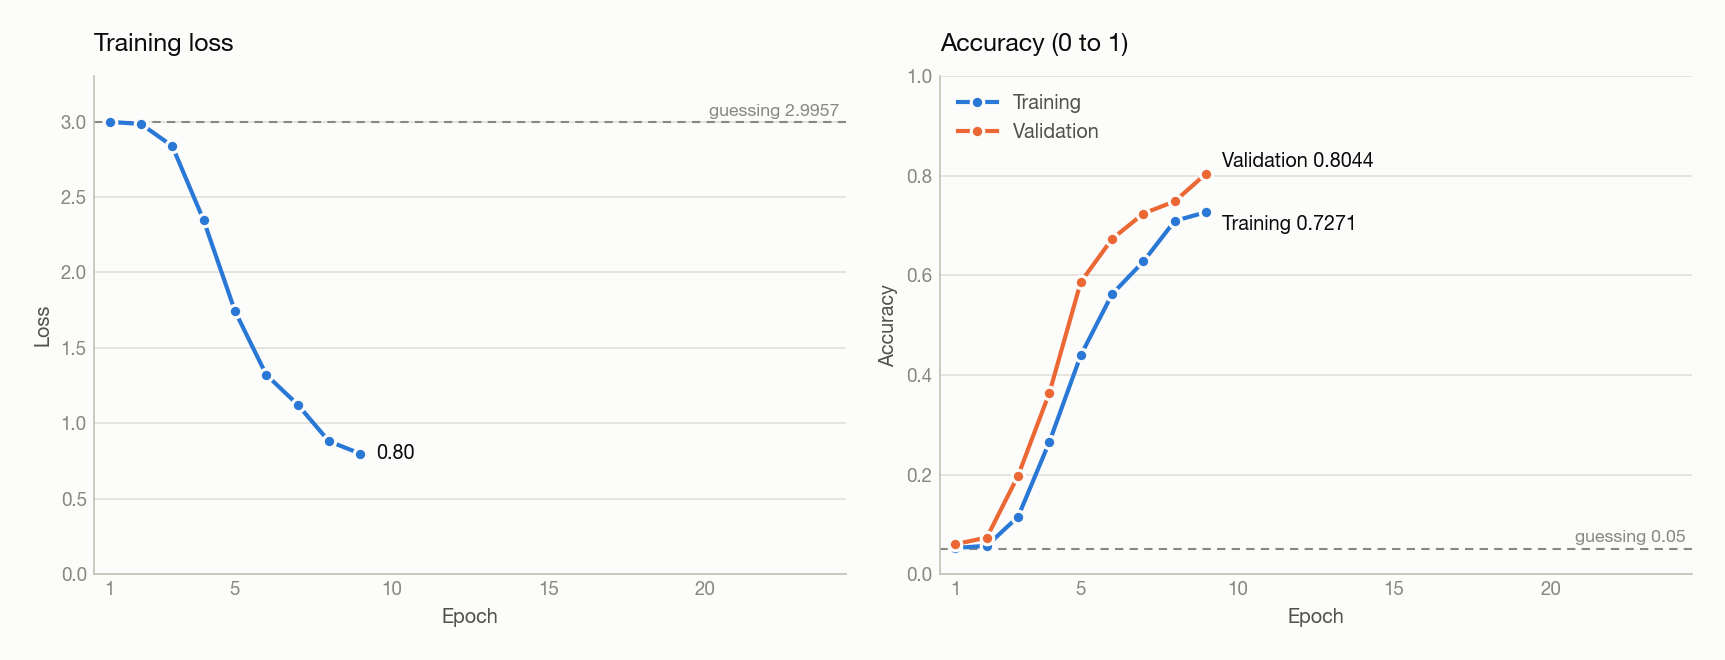
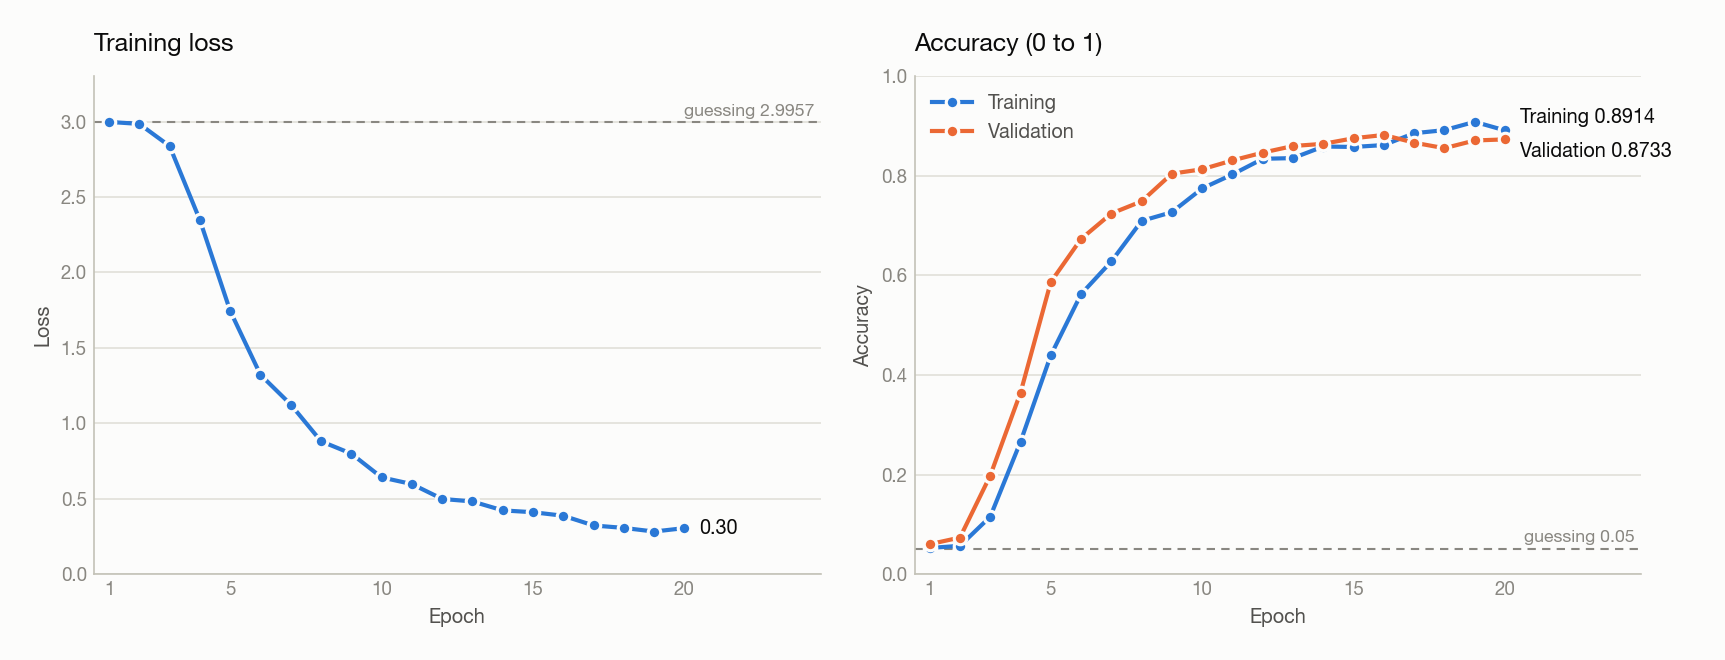
model training 2

diff --git a/README.md b/README.md
@@ -23,6 +23,9 @@ MIRACL-VC1, color images only.
 | `model.py` | An older full script, kept only for comparison. Running it overwrites `best_model.pth`. |
 | `Lip_Reading_CNN_Model.pdf` | The book chapter this project follows. |
 | `PROGRESS.md` | Session log. |
+| `plot_charts.py` | Draws the loss and accuracy charts from `training_log.csv`. Run: `python3 plot_charts.py` |
+| `training_log.csv` | One row per epoch: training loss, training accuracy, validation accuracy (0 to 1). |
+| `training_charts.png` | The charts drawn by `plot_charts.py`. |
 
 ## How `model2.py` works
 
@@ -81,10 +84,301 @@ Guessing among 20 classes gives accuracy 0.05 and a loss of 2.9957 (that is ln 2
 
 The numbers 0.457 and 0.273 are the mean and standard deviation of the training pixels.
 
+## Results
+
+Full run: cropped mouth region + scaled pixels, 20 epochs, batch size 16, learning rate 0.001. All accuracies are from 0 to 1. Guessing among 20 classes gives 0.05.
+
+| Model | Training accuracy | Validation accuracy | **Test accuracy** |
+|---|---|---|---|
+| After epoch 20 (last) | 0.9795 | 0.8733 | **0.8978** |
+| Epoch 16 (best validation accuracy) | 0.9790 | 0.8822 | **0.9156** |
+
+- The epoch 16 model was picked using the validation set, not the test set, so its test accuracy is an honest number.
+- The test set has 450 clips, so a difference of about 0.02 between two test accuracies is within normal noise. The two models are about equally good.
+- Training accuracy in the table was measured with dropout off, on all 2100 training clips. The per-epoch training accuracy in the chart is lower (0.89 at epoch 20) because it is measured while training, with dropout on. Compared fairly, the model scores about 0.98 on clips it has seen and about 0.88 to 0.90 on clips it has not. That gap is overfitting.
+- Validation accuracy stopped improving after epoch 16 (best 0.8822), while training accuracy kept rising.
+
+## Training curves
+
+![Training loss and accuracy per epoch](training_charts.png)
+
+The dashed lines mark pure guessing among 20 classes (accuracy 0.05, loss 2.9957). Validation loss was not recorded, so the loss chart shows training loss only.
+
 ## Known issues and next steps
 
 - The pixel scaling is **not yet in `model2.py`**. Without it, `model2.py` stays at about 0.05. Add it before training.
 - The mouth box is fixed per speaker. A few recordings (for example F04 and F09) move enough that the box misses the mouth. A face or mouth detector would fix this.
-- Final training, validation and test accuracy for the full 20 epochs with scaling are being measured. Fill them in here when the run finishes.
+- The model overfits after about epoch 16. Ideas to try: stop at the best validation epoch, add data augmentation, or add more dropout.
 - Data loading is slow. Saving the processed arrays once with `np.savez` avoids re-reading the images each run.
 - Padding repeats the last frame. The book pads with each speaker's `dummy.jpg` instead.
+
+## Full code: model2.py
+
+This is a copy of the file as it was when this README was written. If you edit `model2.py`, the real file is the one that counts.
+
+```python
+#part1-imports
+import os
+import cv2
+import numpy as np
+import torch
+import torch.nn as nn
+from sklearn.model_selection import train_test_split
+from torch.utils.data import TensorDataset, DataLoader
+
+#part2-data(5 steps)
+#step-1 Speaker folders	Recording folder locations
+clip_paths = []
+clip_labels = []
+clips = []
+DATA_DIR = "dataset"
+speakers=sorted(os.listdir(DATA_DIR))
+# mouth centre (x, y) of each speaker in the 640x480 picture
+mouth_center = {
+    "F01": (242, 368), "F02": (287, 373), "F04": (268, 285), "F05": (258, 315),
+    "F06": (267, 300), "F07": (245, 280), "F08": (255, 328), "F09": (257, 318),
+    "F10": (298, 345), "F11": (290, 350), "M01": (278, 275), "M02": (355, 252),
+    "M04": (345, 302), "M07": (262, 332), "M08": (302, 342)}
+CROP_W = 200
+CROP_H = 125
+for speaker in speakers:
+    if speaker.endswith(".txt"):
+        continue
+    for category in ["words", "phrases"]:
+        category_path = os.path.join(DATA_DIR, speaker, category)
+        labels = sorted(os.listdir(category_path))
+        for label in labels:
+            label_path = os.path.join(category_path, label)
+            repetitions = sorted(os.listdir(label_path))
+            for repetition in repetitions:
+                repetition_path = os.path.join(label_path, repetition) 
+                frames = sorted([f for f in os.listdir(repetition_path)if f.startswith("color")])
+                frames_data = []
+                for frame in frames:
+                    frame_path = os.path.join(repetition_path, frame)
+#step2 Reading images and converting them into grayscale
+                    image = cv2.imread(frame_path)
+                    cx, cy = mouth_center[speaker]
+                    left = max(0, min(640 - CROP_W, cx - CROP_W // 2))
+                    top = max(0, min(480 - CROP_H, cy - CROP_H // 2))
+                    image = image[top:top + CROP_H, left:left + CROP_W]
+                    image = cv2.cvtColor(image, cv2.COLOR_BGR2GRAY)
+                    image = cv2.resize(image, (48, 30))
+                    image = image.astype(np.float32)
+                    image = image / 255.0
+                    frames_data.append(image)
+                clip = np.array(frames_data)
+                 
+#step 3 adding dummy for frames less than 15 
+                if len(clip) == 0:
+                    continue
+                elif len(clip) > 15:
+                    indices = np.linspace(0, len(clip)-1, 15).astype(int)
+                    clip = clip[indices]
+
+                elif len(clip) < 15:
+                    padding = 15 - len(clip)
+                    last_frame = clip[-1]
+                    extra_frames = np.repeat(last_frame[np.newaxis, :, :], padding, axis=0)
+                    clip = np.concatenate((clip, extra_frames), axis=0)
+                clips.append(clip)
+                clip_paths.append(repetition_path)
+                clip_labels.append(category + "_" + label)   
+#step4  convert word and phrases labels into numbers  
+label_names = sorted(set(clip_labels))
+label_to_number = {}
+
+for i, label in enumerate(label_names):
+    label_to_number[label] = i
+
+numeric_labels = []
+
+for label in clip_labels:
+    numeric_labels.append(label_to_number[label])
+
+#step5 split data into training , validation and testing
+X = np.array(clips)
+y = np.array(numeric_labels)
+# First split: 70% training and 30% remaining data
+X_train, X_temp, y_train, y_temp = train_test_split(X, y,test_size=0.30,random_state=42,stratify=y)
+
+# Second split: 15% validation and 15% testing
+X_val, X_test, y_val, y_test = train_test_split( X_temp, y_temp,test_size=0.50, random_state=42,stratify=y_temp)
+
+#part 3: model building
+num_classes = len(label_names)
+class LipReadingCNN(nn.Module):
+    def __init__(self):
+        super(LipReadingCNN, self).__init__()
+        # First 3D convolution layer
+        self.conv1 = nn.Conv3d(in_channels=1,out_channels=32,kernel_size=3,padding=1)     
+        self.relu1 = nn.ReLU()
+        self.pool1 = nn.MaxPool3d(kernel_size=(1, 2, 2))
+        # Second 3D convolution layer
+        self.conv2 = nn.Conv3d(in_channels=32,out_channels=64,kernel_size=3,padding=1)   
+        self.relu2 = nn.ReLU()
+        self.pool2 = nn.MaxPool3d(kernel_size=2)       
+        # Third 3D convolution layer
+        self.conv3 = nn.Conv3d(in_channels=64,out_channels=128,kernel_size=3,padding=1)   
+        self.relu3 = nn.ReLU()
+        self.pool3 = nn.MaxPool3d(kernel_size=2)        
+        # Flatten layer
+        self.flatten = nn.Flatten()
+        # Fully connected layers
+        self.fc1 = nn.Linear(128 * 3 * 3 * 6, 256)
+        self.relu4 = nn.ReLU()
+        self.dropout = nn.Dropout(0.5)
+        self.fc2 = nn.Linear(256, num_classes)
+
+    # Forward propagation
+    def forward(self, x):
+        x = self.conv1(x)
+        x = self.relu1(x)
+        x = self.pool1(x)
+        x = self.conv2(x)
+        x = self.relu2(x)
+        x = self.pool2(x)
+        x = self.conv3(x)
+        x = self.relu3(x)
+        x = self.pool3(x)
+        x = self.flatten(x)
+        x = self.fc1(x)
+        x = self.relu4(x)
+        x = self.dropout(x)
+        x = self.fc2(x)
+        return x
+# Create the model
+model = LipReadingCNN()
+print(model)# STEP 1: Convert NumPy arrays into PyTorch tensors
+
+X_train = torch.tensor(X_train, dtype=torch.float32).unsqueeze(1)
+X_val = torch.tensor(X_val, dtype=torch.float32).unsqueeze(1)
+X_test = torch.tensor(X_test, dtype=torch.float32).unsqueeze(1)
+
+y_train = torch.tensor(y_train, dtype=torch.long)
+y_val = torch.tensor(y_val, dtype=torch.long)
+y_test = torch.tensor(y_test, dtype=torch.long)
+
+
+# STEP 2: Create datasets
+
+train_dataset = TensorDataset(X_train, y_train)
+val_dataset = TensorDataset(X_val, y_val)
+test_dataset = TensorDataset(X_test, y_test)
+
+
+# STEP 3: Create DataLoaders
+
+train_loader = DataLoader(train_dataset, batch_size=32, shuffle=True)
+val_loader = DataLoader(val_dataset, batch_size=32, shuffle=False)
+test_loader = DataLoader(test_dataset, batch_size=32, shuffle=False)
+
+# STEP 5: Define loss function and optimizer
+
+criterion = nn.CrossEntropyLoss()
+
+optimizer = torch.optim.Adam(model.parameters(), lr=0.001)
+
+
+# STEP 6: Train and validate the model
+
+epochs = 40
+
+for epoch in range(epochs):
+
+    # Training
+
+    model.train()
+
+    train_loss = 0.0
+    correct = 0
+    total = 0
+
+    for videos, labels in train_loader:
+
+        videos = videos.to(device)
+        labels = labels.to(device)
+
+        optimizer.zero_grad()
+
+        outputs = model(videos)
+
+        loss = criterion(outputs, labels)
+
+        loss.backward()
+
+        optimizer.step()
+
+        train_loss += loss.item()
+
+        _, predicted = torch.max(outputs, 1)
+
+        total += labels.size(0)
+        correct += (predicted == labels).sum().item()
+
+    train_accuracy = correct / total
+    train_loss = train_loss / len(train_loader)
+
+
+    # Validation
+
+    model.eval()
+
+    val_loss = 0.0
+    correct = 0
+    total = 0
+
+    with torch.no_grad():
+
+        for videos, labels in val_loader:
+
+            videos = videos.to(device)
+            labels = labels.to(device)
+
+            outputs = model(videos)
+
+            loss = criterion(outputs, labels)
+
+            val_loss += loss.item()
+
+            _, predicted = torch.max(outputs, 1)
+
+            total += labels.size(0)
+            correct += (predicted == labels).sum().item()
+
+    val_accuracy = correct / total
+    val_loss = val_loss / len(val_loader)
+
+
+    print(f"Epoch [{epoch+1}/{epochs}]")
+    print(f"Training Loss: {train_loss:.4f}")
+    print(f"Training Accuracy: {train_accuracy:.4f}")
+    print(f"Validation Loss: {val_loss:.4f}")
+    print(f"Validation Accuracy: {val_accuracy:.4f}")
+
+
+# STEP 7: Test the final model
+
+model.eval()
+
+correct = 0
+total = 0
+
+with torch.no_grad():
+
+    for videos, labels in test_loader:
+
+        videos = videos.to(device)
+        labels = labels.to(device)
+
+        outputs = model(videos)
+
+        _, predicted = torch.max(outputs, 1)
+
+        total += labels.size(0)
+        correct += (predicted == labels).sum().item()
+
+test_accuracy = correct / total
+
+print(f"Final Test Accuracy: {test_accuracy:.4f}")
+```

diff --git a/PROGRESS.md b/PROGRESS.md
@@ -1,0 +1,13 @@
+
+## Session 2 (2026-11-10)
+Goal: build model2.py from scratch, all 15 speakers, words + phrases (20 classes), then train, validate, test.
+Done:
+- Part 1 imports, Part 2 data (loops, grayscale 48x30, 15 frames per clip, label numbers, 70/15/15 split), Part 3 model, Part 4 train/validate/test. User wrote these.
+- First full run stuck at 0.05 accuracy (loss 2.9957 = ln 20). Cause 1: whole 640x480 frame, mouth only 1-2 pixels. Cropped a 200x125 box per speaker around the mouth. Still stuck.
+- Overfit test on 64 clips worked (loss 3.2 to 1.7), so the code is fine. Cause 2: unscaled pixels. Scaling (pixel - 0.457) / 0.273 fixed it. Lower learning rate and BatchNorm did not.
+- Full 20 epochs with crop + scaling: last model train 0.9795, val 0.8733, test 0.8978. Best-val model (epoch 16): val 0.8822, test 0.9156.
+- Accuracy printed as 0 to 1. Charts: plot_charts.py -> training_charts.png. README.md written with the code.
+Open:
+- model2.py has the crop and 0-1 accuracy edits but NOT the pixel scaling yet. Add it (user types it, or coach adds it).
+- Overfitting after epoch 16. Next: save best-val model, try augmentation or more dropout.
+- Ask user where model.py (project root) came from; never answered.
